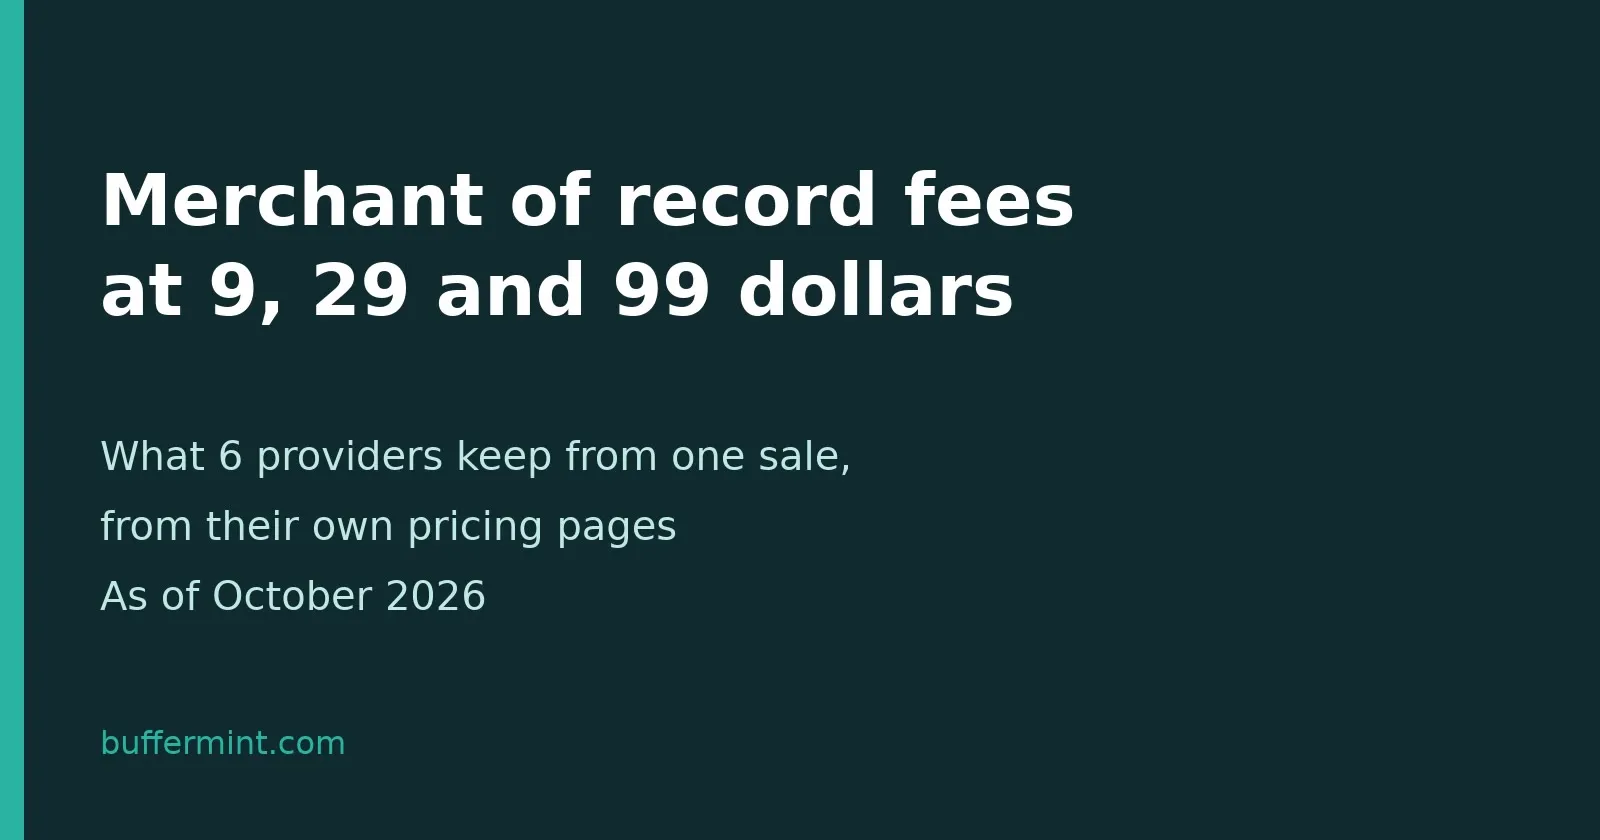
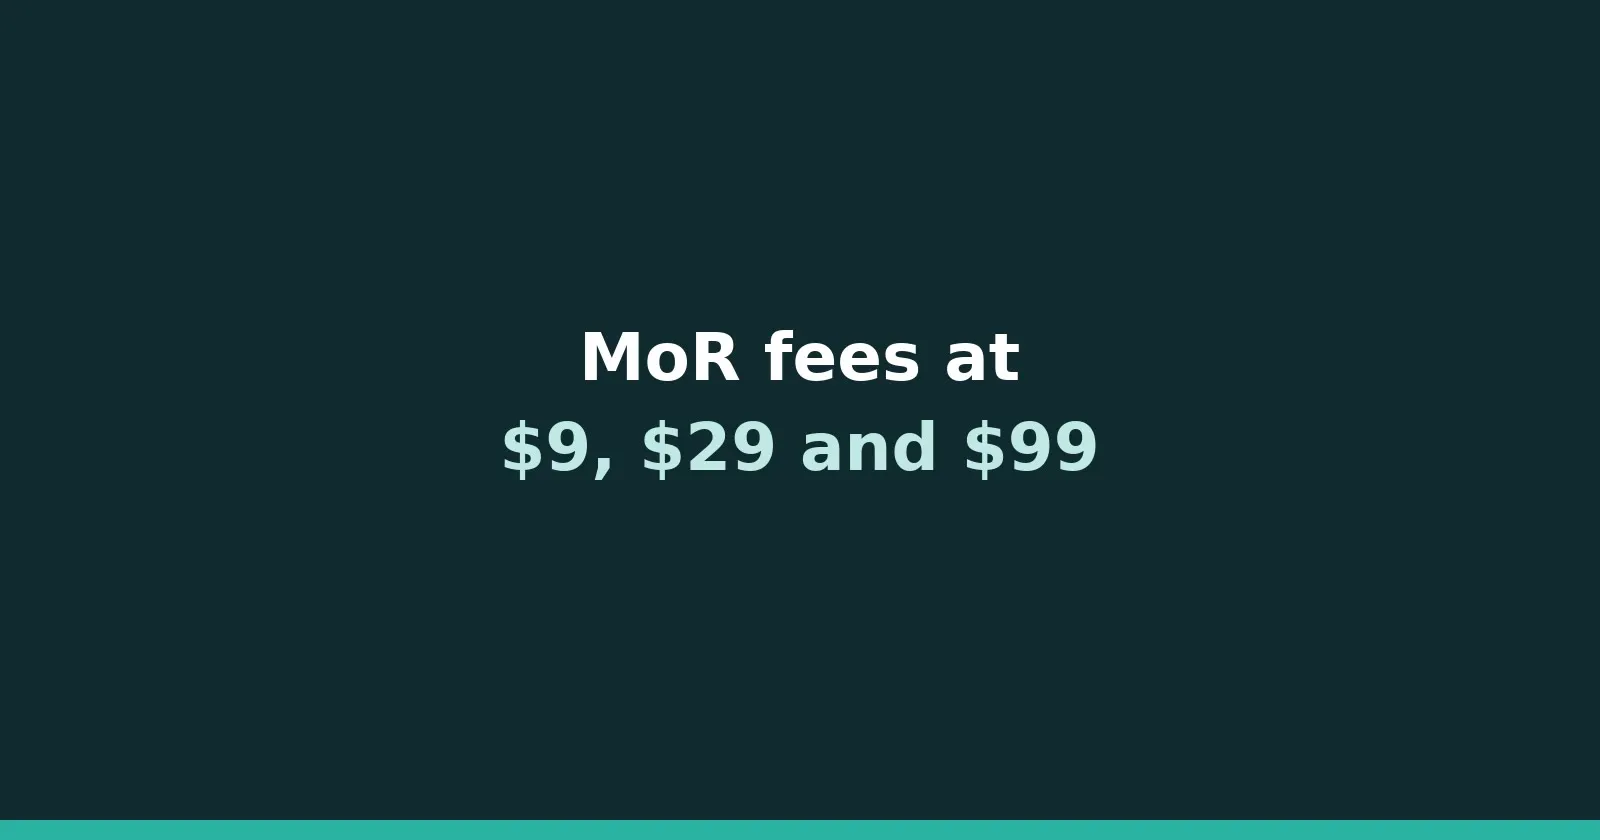
Post tables fit phones; centred cover cards; topics 1-5 published in BLOG-PLAN
posts.scss had no table styles: a 5-column table ran past a 390 px screen
and was cut off. Tables now fill the column with padded cells, whole-word
wrapping (only code breaks anywhere) and smaller type under 576 px.
Covers redrawn with centred titles that survive the jarallax phone crop.

Tests: tests/post-tables.test.mjs + tests/e2e/post-tables.e2e.mjs
(every table in every post fits at desktop and phone)

diff --git a/source/_assets/scss/posts.scss b/source/_assets/scss/posts.scss
@@ -55,6 +55,47 @@
         font-size: 1rem;
     }
 
+    // data tables in posts must fit a phone instead of being cut off: words wrap whole, and only code (host names,
+    // paths) may break anywhere, so the table can shrink to the column; no scroll box, which would need a focusable
+    // region (axe)
+    table {
+        width: 100%;
+        margin: 0 0 1.5rem;
+        border-collapse: collapse;
+        font-size: 1rem;
+        line-height: 1.45;
+    }
+
+    th,
+    td {
+        padding: 0.5rem 0.6rem;
+        border-bottom: 1px solid var(--bm-line);
+        text-align: left;
+        vertical-align: top;
+        overflow-wrap: break-word;
+        hyphens: auto;
+
+        code {
+            overflow-wrap: anywhere;
+        }
+    }
+
+    th {
+        color: var(--bm-heading);
+        font-weight: 700;
+    }
+
+    @media (max-width: 575.98px) {
+        table {
+            font-size: 0.8125rem;
+        }
+
+        th,
+        td {
+            padding: 0.4rem 0.3rem;
+        }
+    }
+
     blockquote {
         margin: 0;
         border-left: 2px solid var(--bm-line);

diff --git a/BLOG-PLAN.md b/BLOG-PLAN.md
@@ -75,7 +75,7 @@ Rank = demand evidence × how well we can add something new × fit with the read
 - **New angle:** our own benchmark (`buffermint-tools/QUALITY-DOCUMENTS.md`): to 100 KB, an 8-page photo PDF came out at 90 KB with SSIM 0.761, against Ghostscript's best of 100 KB at 0.676. A 10-page text report reached 97 KB with every word still extractable, where Ghostscript couldn't get under 150 KB. Show the trade-off (dpi vs. image quality vs. text) with before/after crops, and say which kinds of PDF can't reach 100 KB at all (scans with many pages).
 - **Sources:** Ghostscript pdfwrite docs (ghostscript.com/docs), Adobe Acrobat help on reducing PDF size (helpx.adobe.com), the PDF Association on image compression in PDF (pdfa.org), qpdf manual (qpdf.readthedocs.io), and 2+ official portals that state a 100 KB limit in their instructions (e.g. Indian exam/visa portals; cite the page itself).
 - **Internal links:** /tools/pdf/compress-pdf-to-100kb/, /tools/pdf/compress-pdf-to-size/, /tools/pdf/compress-pdf/, /tools/photo/compress-image-to-100kb/, /tools/pdf/grayscale-pdf/.
-- **Status:** writing
+- **Status:** published 2026-10-29 → `/articles/compress-pdf-to-100kb` (own Ghostscript 10.06 resolution sweep on the benchmark corpus, KB per page at 36–150 dpi; font hinting measured at 81% of the report's font bytes)
 
 ### 2. Are online PDF converters safe? We watched where the file goes · `now`
 - **Keyword:** `are online pdf converters safe`. Level 4 (suggested after "are online pdf" on Google and Bing).
@@ -83,7 +83,7 @@ Rank = demand evidence × how well we can add something new × fit with the read
 - **New angle:** a repeatable test. Open DevTools → Network on 6 popular PDF sites and on ours, run the same task, and record whether the file is uploaded (request size), to which host, and what each privacy policy says about retention. Put the findings next to the documented incident: Cybernews found 89,062 user files exposed by two PDF services in 2024 (check the original report). Readers get a 2-minute check they can run on any tool.
 - **Sources:** the Cybernews research article (cybernews.com; find the original), TechRadar coverage (techradar.com/pro/security/two-top-pdf-tools-have-been-found-leaking-user-documents-and-data-online, found 2026-10-29), BGR (bgr.com/tech/online-pdf-converters-leaked-thousands-of-user-uploaded-documents, found 2026-10-29), each tested site's privacy policy (dated), MDN on the File API (developer.mozilla.org), the UK NCSC or CISA guidance on handling sensitive documents.
 - **Internal links:** /tools/pdf/, /tools/pdf/redact-pdf/, /tools/pdf/protect-pdf/, /tools/photo/exif-stripper/, post 2 ↔ topic 12.
-- **Status:** writing
+- **Status:** published 2026-10-29 → `/articles/are-online-pdf-converters-safe` (own Playwright run 29 Oct 2026, one per site: iLovePDF, Smallpdf, PDF24 and Sejda uploaded 0.8–2.5 s after the file was chosen; FreeConvert after Compress, 224 hosts contacted; Adobe refused the headless browser; ours no upload)
 
 ### 3. The EU AI Act for a small SaaS that calls an LLM API · `now`
 - **Keyword:** `eu ai act` (level 4; HN 349 mentions/24 mo; Wikipedia "Artificial Intelligence Act" 10,986 views/mo), `eu ai act small business` (level 3).
@@ -91,7 +91,7 @@ Rank = demand evidence × how well we can add something new × fit with the read
 - **New angle:** the sources disagree. Early-2026 commentary says the 2 August 2026 transparency duties hold; later reports say the omnibus (adopted June 2026) moved Annex III high-risk duties to 2 December 2027 and gave systems already on the market until 2 December 2026 for marking. Reconcile them from the Official Journal text, then give a dated checklist for the "deployer of a general-purpose model" case: Art. 4 AI literacy (in force since Feb 2025), Art. 50 disclosure, what does *not* apply. Show which sources were right and why the others went wrong (they predate the final text).
 - **Sources:** Regulation (EU) 2024/1689 on EUR-Lex, the omnibus amending act in the Official Journal (eur-lex.europa.eu), the European Commission AI Act Service Desk / FAQ (digital-strategy.ec.europa.eu), DLA Piper (knowledge.dlapiper.com, found 2026-10-29), Stephenson Harwood (perspectives.stephensonharwood.com/post/102msaw, found 2026-10-29), JD Supra (jdsupra.com/legalnews/eu-legislators-agree-to-delay-for-high-5617765, found 2026-10-29).
 - **Internal links:** /tools/ai/pii-redactor/, /tools/ai/llm-cost/, /articles/how-ai-and-machine-learning-is-changing-the-saas-space, topic 6.
-- **Status:** writing
+- **Status:** published 2026-10-29 → `/articles/eu-ai-act-small-saas-llm-api` (proposal vs. final Regulation (EU) 2026/1744 table, dated checklist, SME fine table)
 
 ### 4. Does the European Accessibility Act apply to your small SaaS? · `now`
 - **Keyword:** `european accessibility act` (level 4; Wikipedia 1,080 views/mo; HN 20). The longer `european accessibility act saas` has no autosuggest trace (level 1), so target the head term and answer the SaaS question in the H2s.
@@ -99,7 +99,7 @@ Rank = demand evidence × how well we can add something new × fit with the read
 - **New angle:** (a) a decision tree built from the directive text. Sources disagree on which article holds the microenterprise exemption (Art. 4(5) vs. Art. 22 in different guides) and on whether both tests (<10 staff *and* ≤€2M) apply, so settle it from EUR-Lex. (b) Our own fix log: axe-core on buffermint.com went from 76 to 0 violations across 29 pages (light and dark), plus what the violations were (heading order, contrast, landmarks, an aside in main) and what each fix took (`buffermint-landing/STATUS.md`, 2026-10-25).
 - **Sources:** Directive (EU) 2019/882 on EUR-Lex; Ireland's CCPC microenterprise guidelines (ccpc.ie, found 2026-10-29); the European Commission EAA page; W3C WAI on WCAG 2.1 and EN 301 549 (w3.org/WAI); Level Access on 2026 enforcement (levelaccess.com/blog/eaa-compliance-in-2026…, found 2026-10-29). Treat fine figures from vendor blogs as unverified.
 - **Internal links:** /tools/design/contrast-checker/, /tools/design/color-blindness/, /tools/seo/heading-checker/, /tools/health/color-blind-test/, topic 26.
-- **Status:** writing
+- **Status:** published 2026-10-29 → `/articles/european-accessibility-act-small-saas` (decision tree from Art. 2, 3(23), 3(30), 4(5), 14, 32; the exemption is Art. 4(5) with the definition in 3(23), both tests apply; ACM's 61% webshop finding; our axe fix log)
 
 ### 5. Merchant of record fees at $9, $29 and $99 a month, worked out · `now`
 - **Keyword:** `merchant of record` (level 4; HN 84), `paddle vs stripe` (level 4).
@@ -107,7 +107,7 @@ Rank = demand evidence × how well we can add something new × fit with the read
 - **New angle:** most comparisons online are written by one of the competitors (Dodo's blog writes most of the search results). We work out a neutral table from each provider's own pricing page: fee per sale and per $1,000 of revenue at $9, $29 and $99. It includes the small-ticket penalty (Paddle's 5% + 50¢ is 10.6% of a $9 sale; Paddle asks under-$10 sellers to contact them for pricing, *read 2026-10-29*), tax filing coverage, payouts to India, and when plain Stripe + Stripe Tax is cheaper.
 - **Sources:** paddle.com/pricing *(read 2026-10-29)*, lemonsqueezy.com/pricing, polar.sh docs on fees, dodopayments.com/pricing, creem.io pricing, stripe.com/pricing and Stripe Tax pricing, flaviocopes.com/payment-provider-fees (found 2026-10-29; an independent calculation to compare with). Date every price "as of <month year>".
 - **Internal links:** /tools/business/mrr-calculator/, /tools/business/profit-margin-calculator/, /tools/business/vat-calculator/, /tools/business/pricing-tier-calculator/, topic 18.
-- **Status:** writing
+- **Status:** published 2026-10-29 → `/articles/merchant-of-record-fees` (six pricing pages read 29 Oct 2026; fee per sale at $9/$29/$99 for US and non-US cards; $2,900 MRR example incl. Stripe Tax Complete; break-evens)
 
 ### 6. What an AI feature really costs per user · `now`
 - **Keyword:** `llm cost calculator` (level 4), `llm api pricing` (level 3; HN 7), `token counter` (level 3; HN 37).

diff --git a/source/_posts/eu-ai-act-small-saas-llm-api.blade.md b/source/_posts/eu-ai-act-small-saas-llm-api.blade.md
@@ -37,7 +37,7 @@ Here is where the sources you'll find disagree, and which one the final text bac
 | Topic | What the November 2025 proposal said | What the final law says | Why older articles get it wrong |
 |---|---|---|---|
 | High-risk (Annex III) start | A moving date: obligations would start after the Commission confirmed standards were ready, with a cap on the delay | Fixed: **2 December 2027** for Annex III systems, **2 August 2028** for AI in regulated products (Annex I) | Articles on the proposal describe the conditional mechanism, which Parliament and Council dropped ([Cuatrecasas](https://www.cuatrecasas.com/en/spain/intellectual-property/art/digital-omnibus-ai-has-been-published)) |
-| Article 50(2) marking of AI output, for systems already on the market | Six months' grace, to 2 February 2027 | Four months, to **2 December 2026** | The proposal's date, compromise between Parliament (three months) and Commission (six) (Cuatrecasas) |
+| Article 50(2) marking of AI output, for systems already on the market | Six months' grace, to 2 February 2027 | Four months, to **2 December 2026** | Articles on the proposal give 2 February 2027. The final four months were a compromise between Parliament (three months) and the Commission (six) (Cuatrecasas) |
 | Article 50 transparency in general | Not delayed | Still **2 August 2026** | Some summaries said "the AI Act was delayed" and readers applied it to everything; the delay was for high-risk only ([Jones Walker](https://www.joneswalker.com/en/insights/blogs/ai-law-blog/yes-august-2-still-matters-the-eu-approved-a-high-risk-ai-delay-but-most-trans.html)) |
 | Article 4 AI literacy | Duty on companies removed; Commission and member states would promote literacy instead | Kept, softened: providers and deployers must **support** AI literacy among their staff, not guarantee a level | Articles on the proposal say the duty is gone. Parliament restored it ([Gibson Dunn](https://www.gibsondunn.com/eu-ai-act-omnibus-agreement-postponed-high-risk-deadlines-and-other-key-changes/); Cuatrecasas) |
 | Small mid-caps (under 750 staff) | SME-style relief extended to them | Kept | Not contested ([Orrick](https://www.orrick.com/en/Insights/2026/07/EU-AI-Act-Update-Digital-Omnibus-Finalizes-8-Compliance-Changes)) |

diff --git a/STATUS.md b/STATUS.md
@@ -1,6 +1,10 @@
 # buffermint-landing — status
 
-Last updated: 2026-10-29. The blog plan is `BLOG-PLAN.md`. The master plan is in `../PLAN.md`.
+Last updated: 2026-10-29 (articles 1–5). The blog plan is `BLOG-PLAN.md`. The master plan is in `../PLAN.md`.
+
+## Blog articles 1–5 (2026-10-29, lane `lane/t-20261029-blog-articles-1`, not merged or deployed yet)
+- Five new posts, BLOG-PLAN topics 1–5 (each 1,400–1,750 words, 5+ publishers in `## Sources`, our own data or calculation): `compress-pdf-to-100kb` (our Ghostscript resolution sweep + font-hinting measurement), `are-online-pdf-converters-safe` (our network test of six PDF sites), `eu-ai-act-small-saas-llm-api` (Omnibus proposal vs. final text), `european-accessibility-act-small-saas` (decision tree from the directive + our axe fix log), `merchant-of-record-fees` (six pricing pages worked out at $9/$29/$99). Covers are our own: a render of a public-domain NASA test page, and generated text cards with centred titles so the phone crop of the jarallax cover keeps them.
+- **Post tables:** the site had no table styles, so a 5-column table ran past a 390 px phone and was cut off. `posts.scss` now styles `#post-content` tables (full width, padded cells, words wrap whole, only `code` may break anywhere, smaller type under 576 px). Test: `tests/post-tables.test.mjs` (built CSS) + `tests/e2e/post-tables.e2e.mjs` (every table in every post fits the column at desktop and phone, through `bin/one-chrome`).
 
 ## Blog research and SEO (2026-10-29, lane `lane/t-20261029-blog-research-seo`, not merged or deployed yet)
 - **`BLOG-PLAN.md`:** the editorial rules, voice notes, our traffic (GoatCounter log, 23–29 Oct: 530 pageviews), and 32 ranked topics (10 `now`). Each topic has keyword demand from the workspace's keyless tooling (autosuggest level, HN, Wikipedia), a new angle (often our own benchmarks or build data), 4+ sources, internal links to /tools, and a status. It also covers the decisions for the 21 old posts (9 refresh, 9 merge with 301s, 3 leave) and the SEO audit with what's still open. The article and refresh lanes work from it.

diff --git a/source/_posts/are-online-pdf-converters-safe.blade.md b/source/_posts/are-online-pdf-converters-safe.blade.md
@@ -27,14 +27,14 @@ An upload shows up as a POST or PUT request about the size of the file (310,000 
 
 ## What we saw
 
-| Service | Did the file leave the computer? | When the upload started | Where it went | Servers contacted during the visit |
+| Service | File uploaded? | Upload started | Where it went | Servers contacted |
 |---|---|---|---|---|
-| iLovePDF | Yes | 1.0 s after picking the file | `api99.ilovepdf.com` | 23 |
-| Smallpdf | Yes | 2.5 s after picking the file | a Cloudflare R2 storage bucket named for Smallpdf's production files | 25 |
-| PDF24 | Yes | 0.9 s after picking the file | `filetools20.pdf24.org` | 13 |
-| Sejda | Yes | 0.8 s after picking the file | `www.sejda.com` | 2 |
+| iLovePDF | Yes | 1.0 s after choosing the file | `api99.ilovepdf.com` | 23 |
+| Smallpdf | Yes | 2.5 s after choosing the file | a Cloudflare R2 storage bucket for Smallpdf's production files | 25 |
+| PDF24 | Yes | 0.9 s after choosing the file | `filetools20.pdf24.org` | 13 |
+| Sejda | Yes | 0.8 s after choosing the file | `www.sejda.com` | 2 |
 | FreeConvert | Yes | after pressing Compress (14.3 s) | `s42-hzfi.freeconvert.com` | 224 |
-| Adobe Acrobat online | Couldn't test: the site refused our automated browser ("Access Denied") | – | Adobe says files are handled on its servers | – |
+| Adobe Acrobat online | Not tested: the site refused our automated browser | – | its servers, per Adobe | – |
 | BufferMint (ours) | No | no upload | – | 2 |
 
 *Measured 29 October 2026, headless Chromium, desktop, no consent given, one run per site. "Servers contacted" counts distinct host names over about 40 seconds.*
